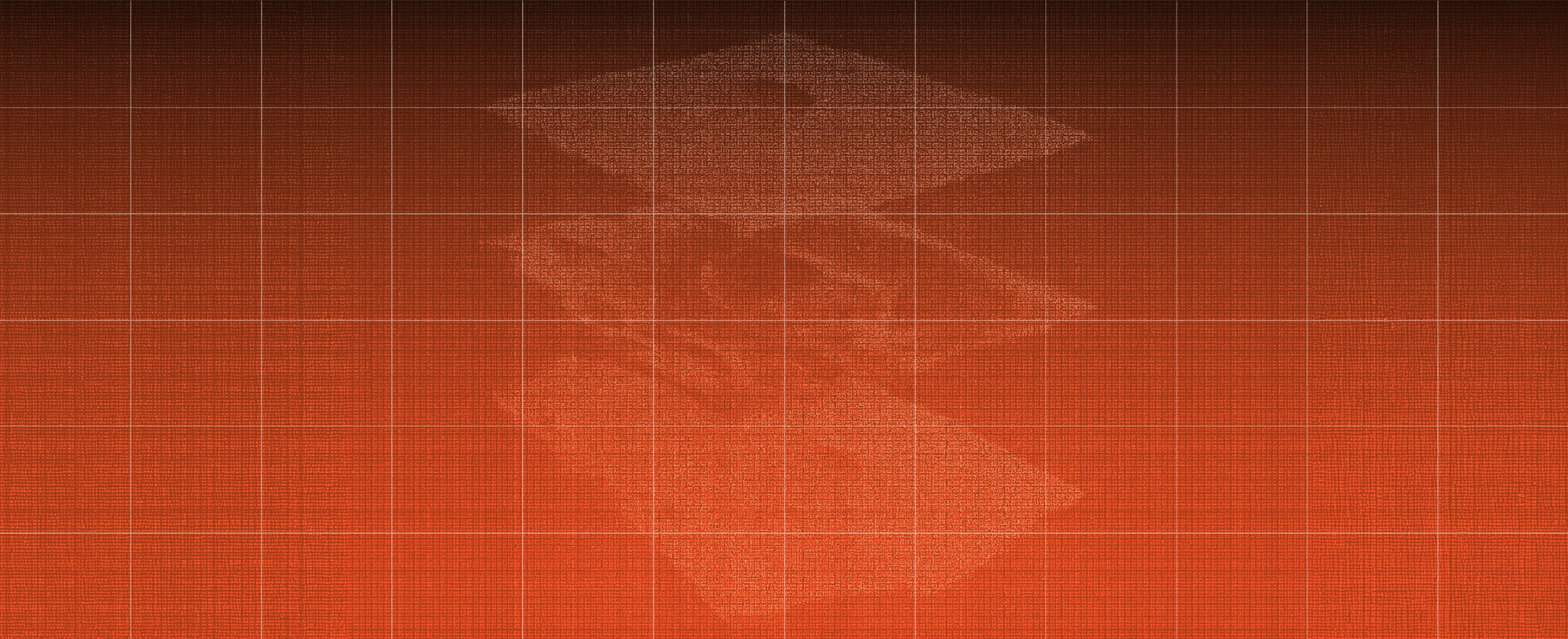
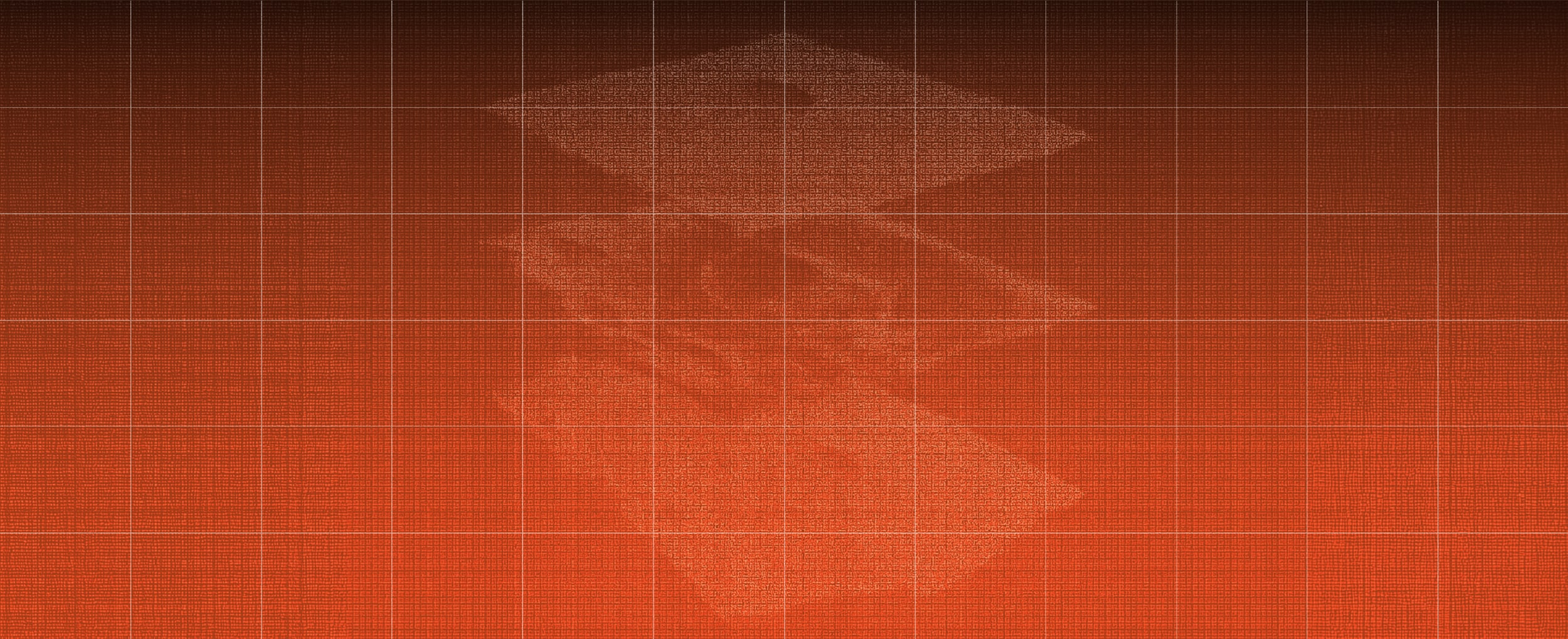
perf: reduce here img size

diff --git a/src/components/Hero/index.tsx b/src/components/Hero/index.tsx
@@ -28,10 +28,8 @@ export default function Hero() {
 
       <div className="absolute inset-0 bg-cover bg-[right_-20px_top] z-0">
         <Image
-          // src={"/hero/底圖.jpg"}
           src={"/hero/底圖壓縮.jpg"}
           fill
-          // sizes="100"
           className="object-cover md:object-right"
           alt="底圖"
         />
